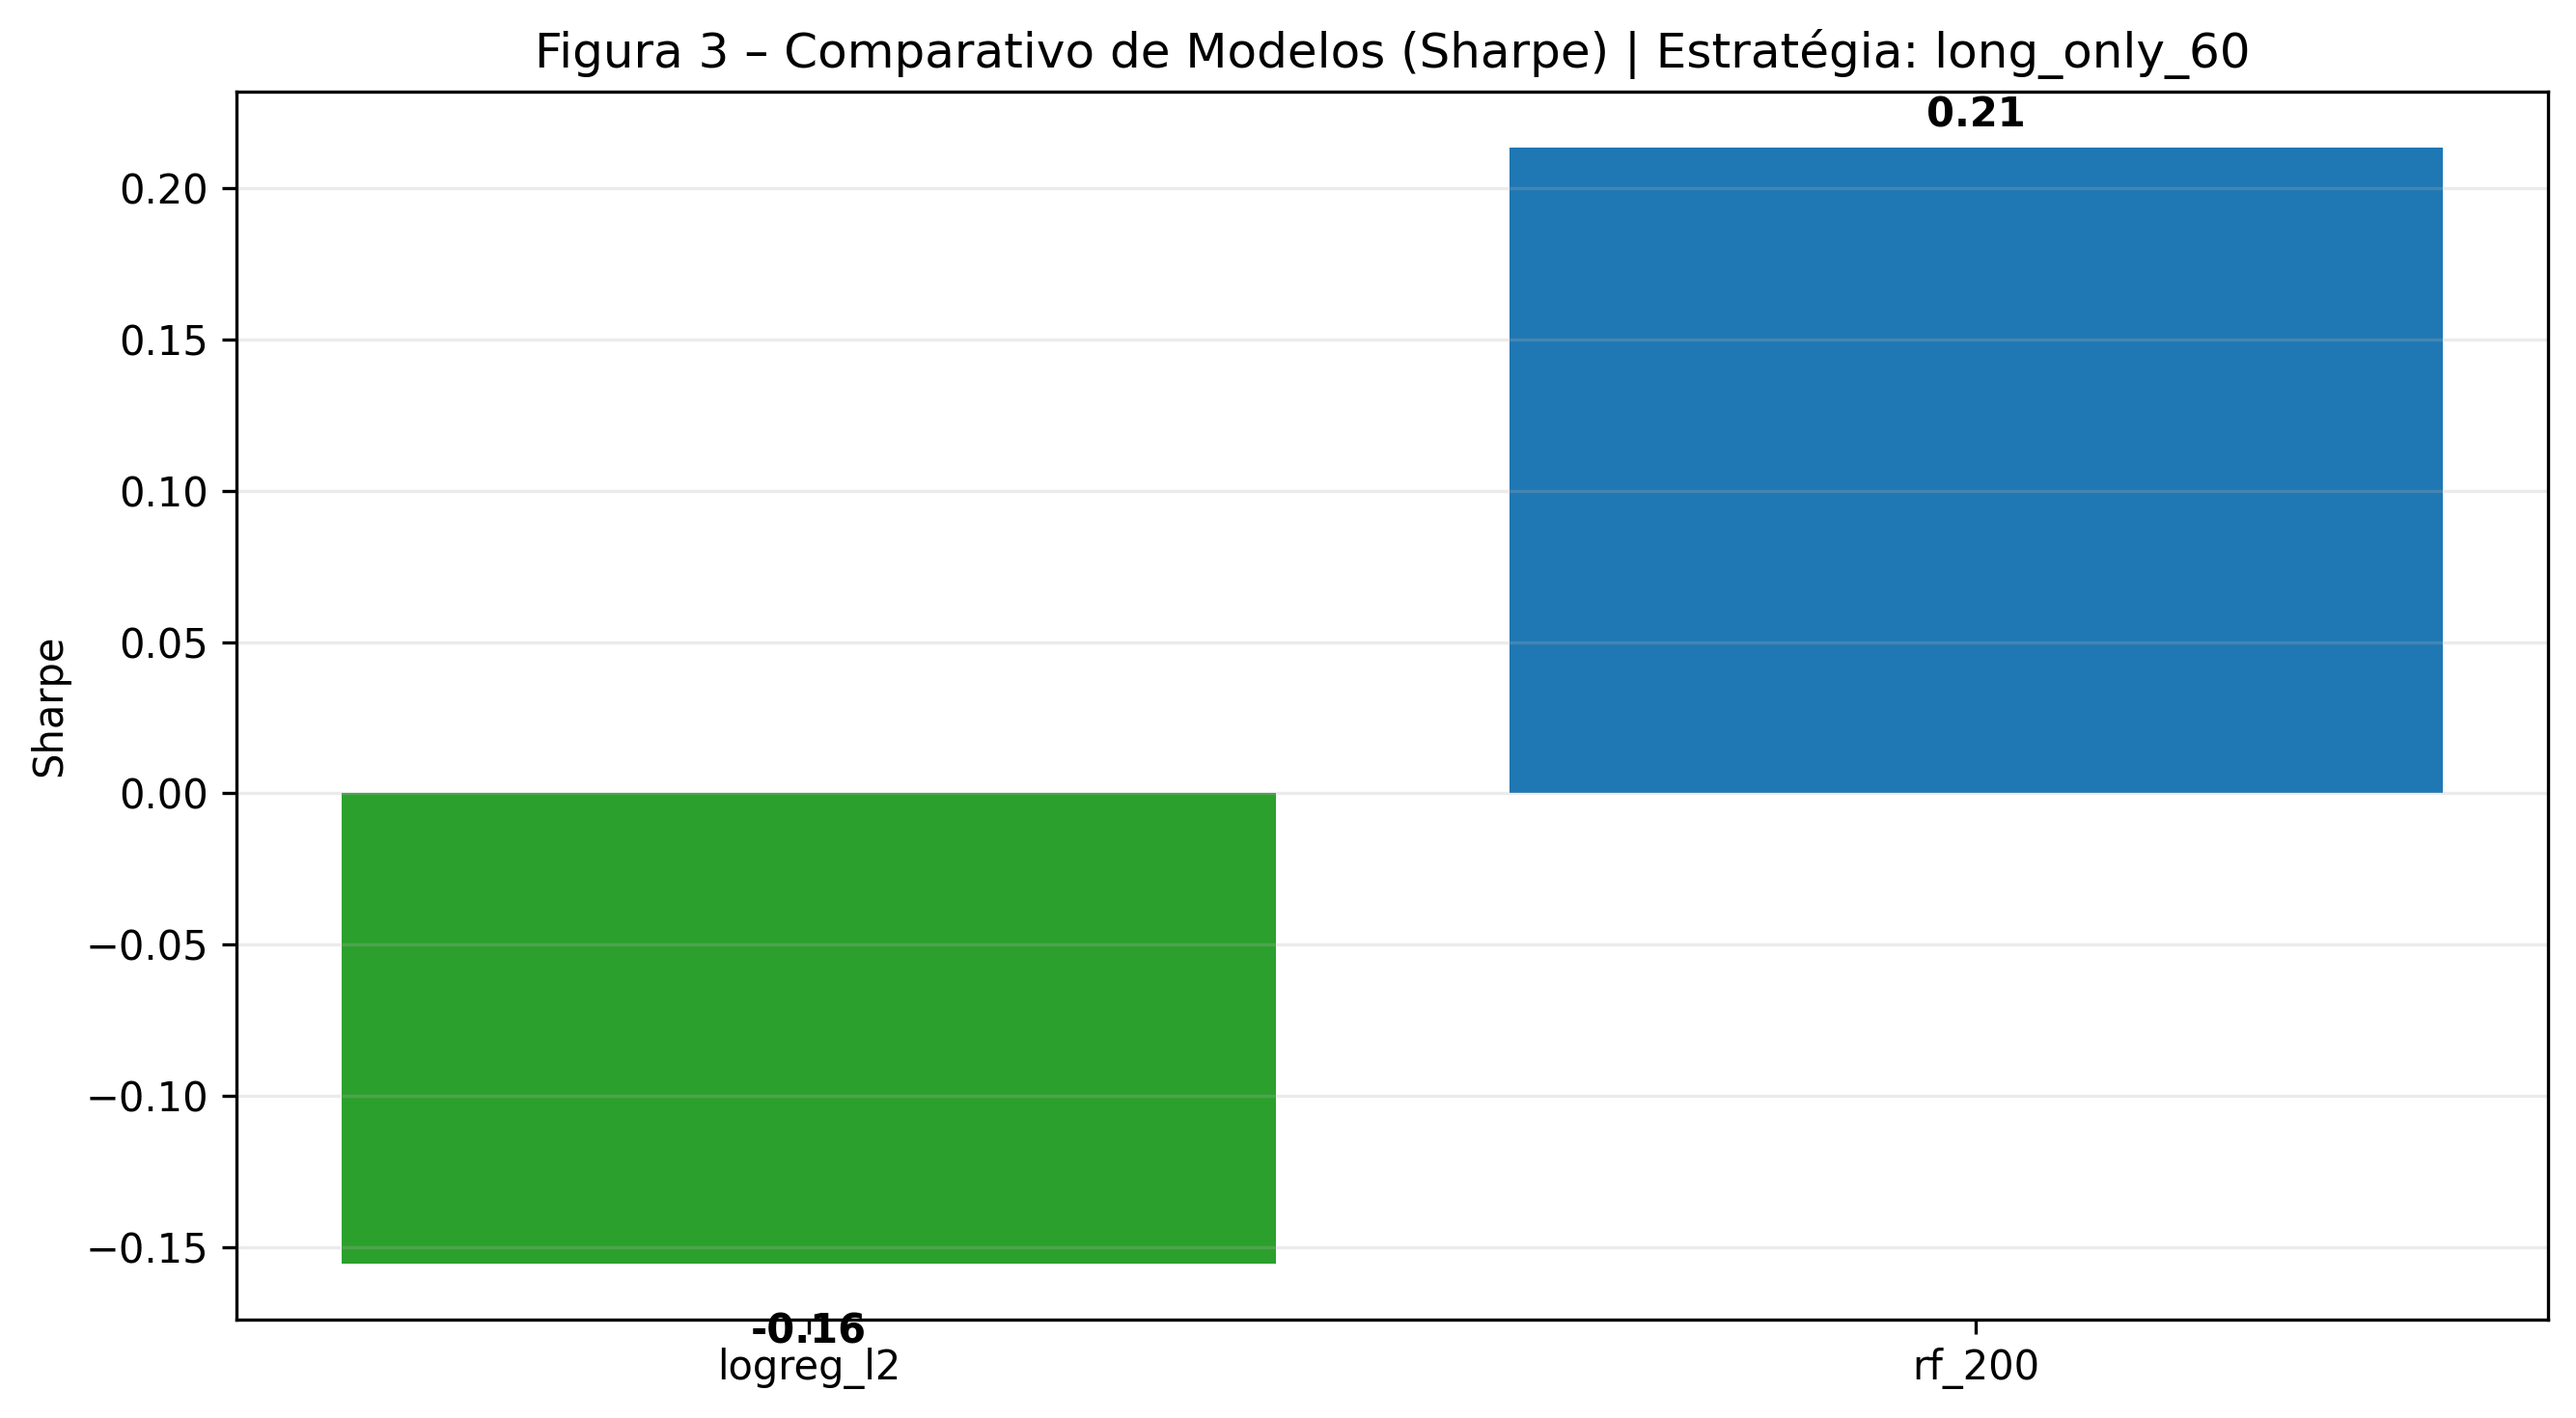
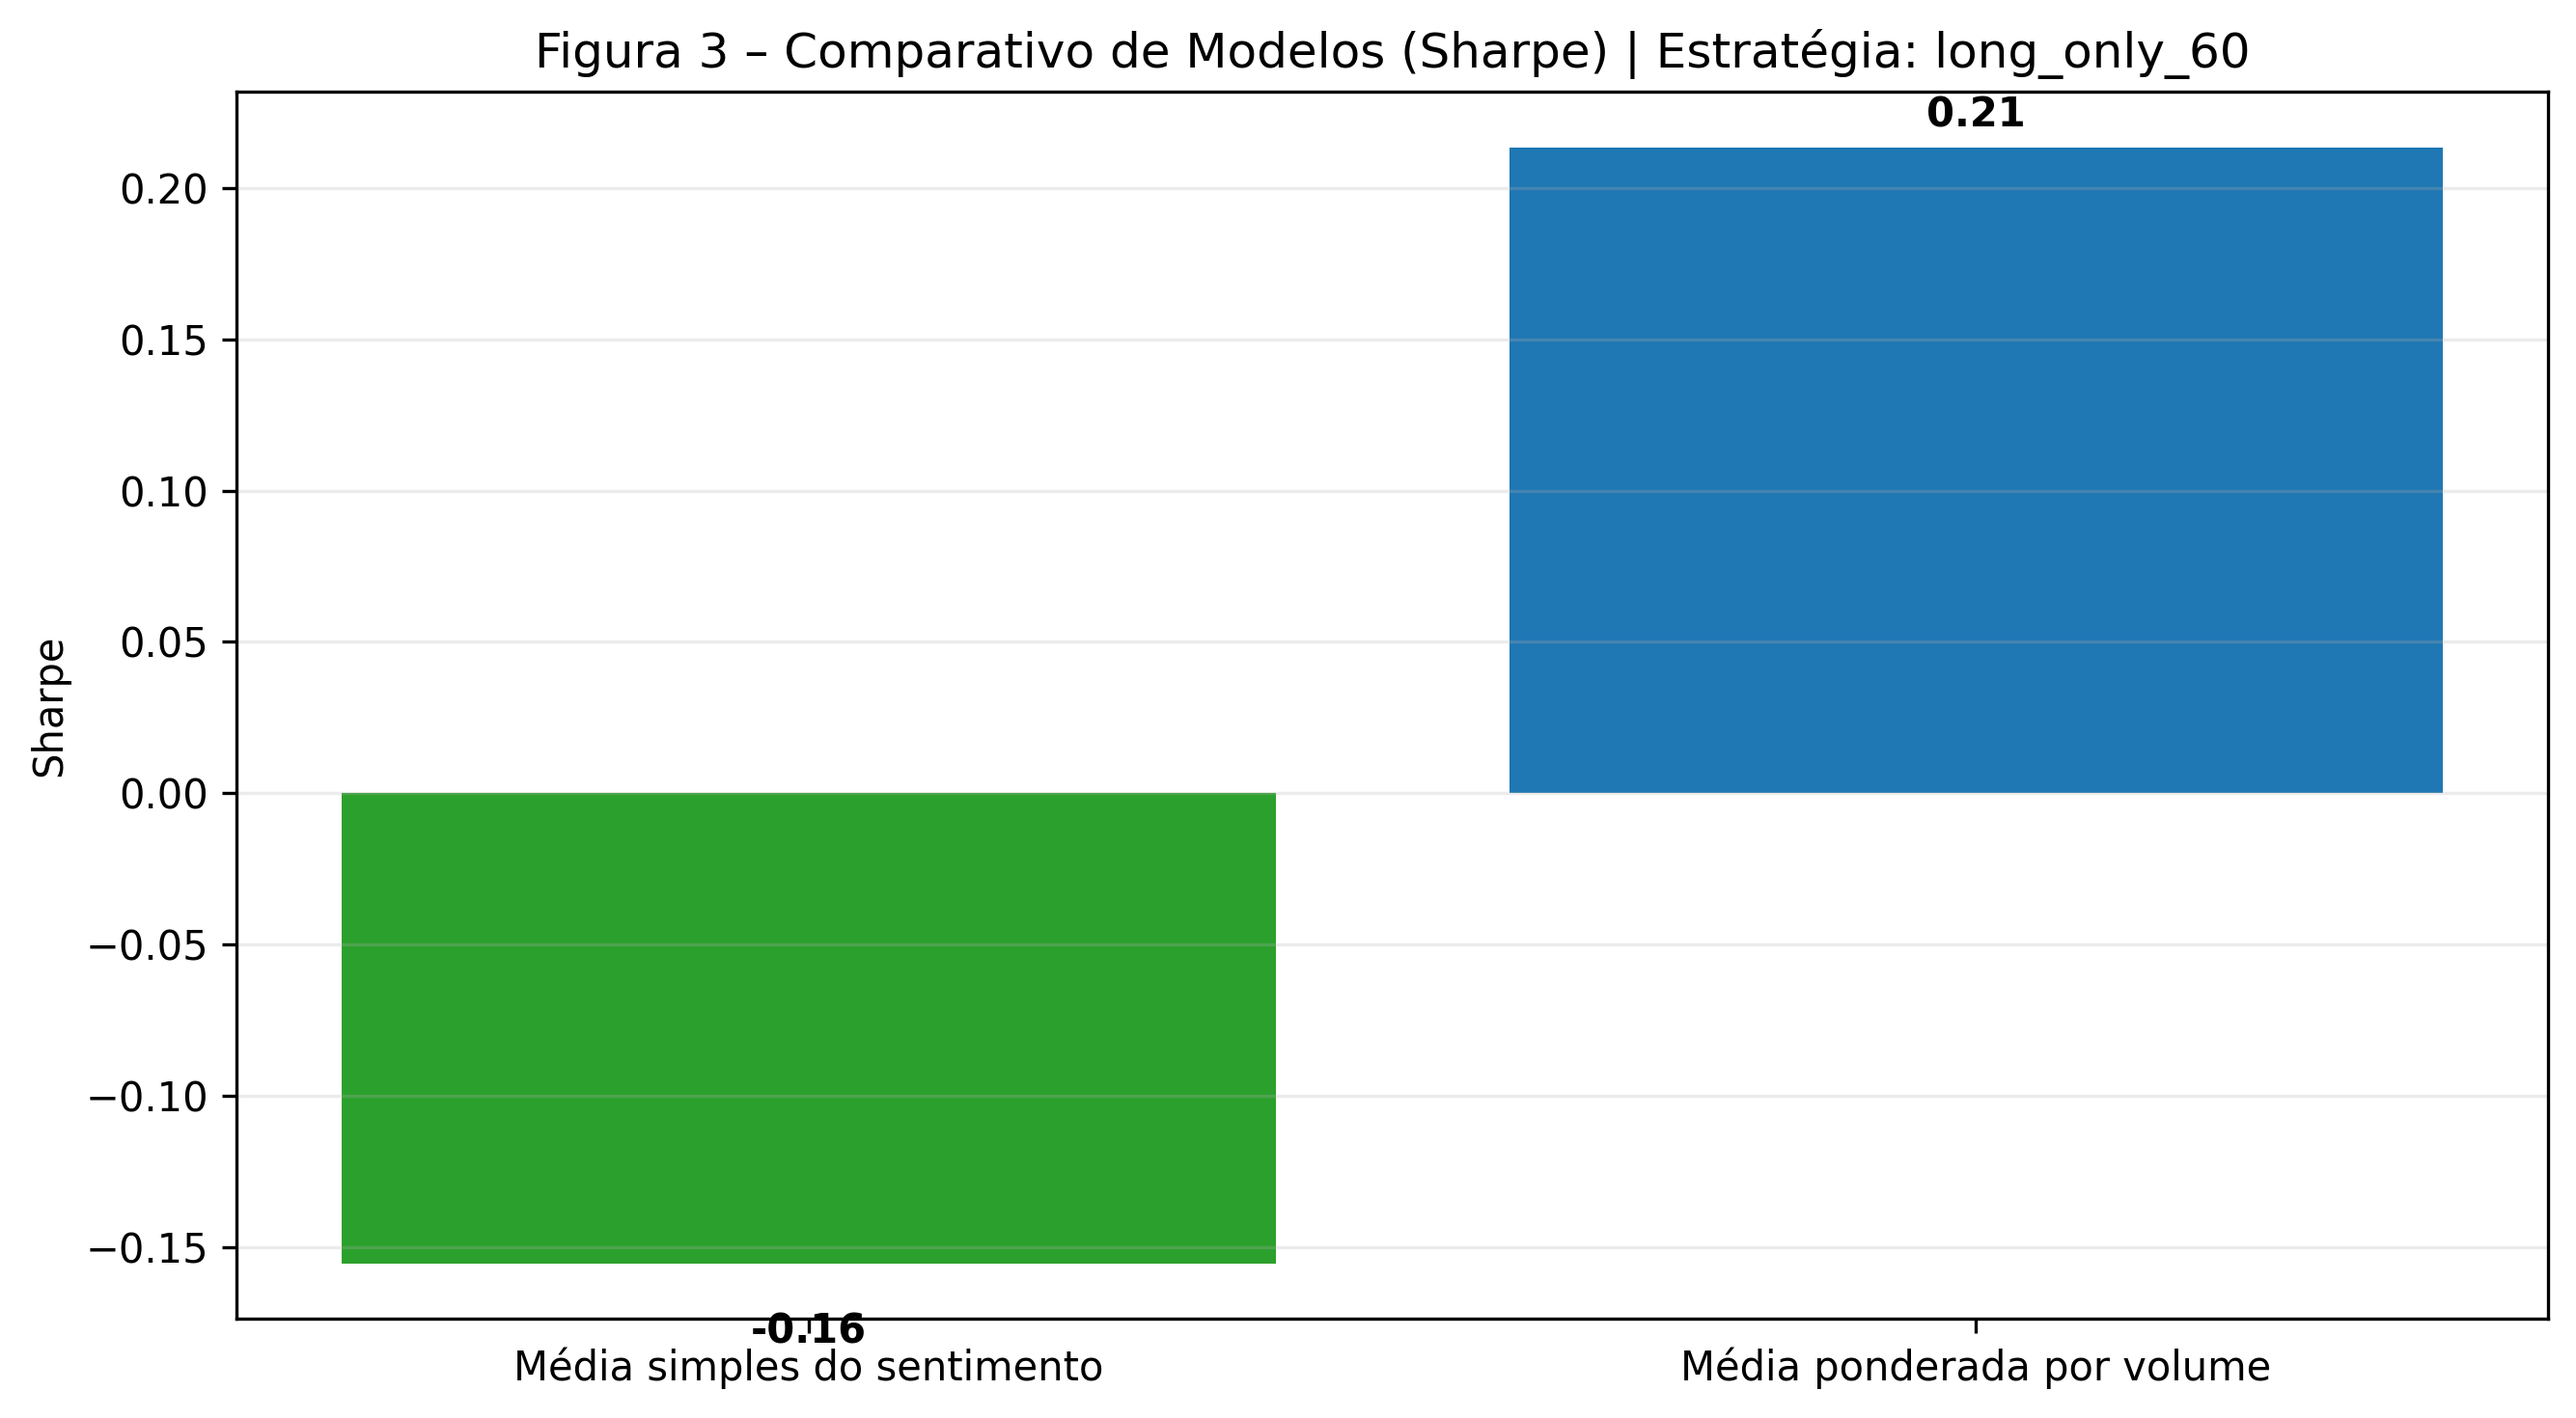
feat(labels): atualiza rótulos de legenda para nomes descritivos (v1.1)
- Substitui 'logreg_l2' por 'Média simples do sentimento' e 'rf_200'
  por 'Média ponderada por volume' nas legendas das Figuras 2, 4 e 8
- Adiciona MODEL_DISPLAY_NAMES em export_tcc_figures.py e app_dashboard.py
  para mapeamento centralizado sem renomear colunas ou variáveis internas
- Regenera 11 figuras base (long_only_60) com os novos rótulos
- Atualiza README: badge de versão, descrição dos modelos no dropdown
  e nota de versão v1.1 na seção de validação

Changed region(s): [[0.1866, 0.949, 0.4354, 0.9796], [0.6531, 0.949, 0.8707, 0.9796]]

diff --git a/scripts/export_tcc_figures.py b/scripts/export_tcc_figures.py
@@ -26,6 +26,10 @@ FORCE_OVERWRITE = True
 OFFICIAL_START = pd.Timestamp("2018-01-02")
 OFFICIAL_END = pd.Timestamp("2024-12-31")
 ANCHOR_MODELS = ["logreg_l2", "rf_200"]
+MODEL_DISPLAY_NAMES = {
+    "logreg_l2": "Média simples do sentimento",
+    "rf_200": "Média ponderada por volume",
+}
 # ordem de preferência; caímos para a próxima se a curva diária ficar peça (nunique<=200)
 STRATEGIES_CFG = [
     {"name": "long_only_60", "long_th": 0.60, "short_th": 0.40, "allow_short": False, "cost": 0.0005},
@@ -295,7 +299,7 @@ def figure_ibov_events(ibov: pd.DataFrame, events: pd.DataFrame) -> None:
 def figure_sentiment_daily(sent_daily: pd.DataFrame) -> None:
     fig, ax = plt.subplots(figsize=(11, 5.5), dpi=300)
     for model, dfm in sent_daily.groupby("model"):
-        ax.plot(dfm["day"], dfm["sentiment"], label=model)
+        ax.plot(dfm["day"], dfm["sentiment"], label=MODEL_DISPLAY_NAMES.get(model, model))
     ax.axhline(0, color="gray", linestyle="--", linewidth=1)
     ax.set_title("Figura 2 – Sentimento médio diário")
     ax.set_xlabel("Data")
@@ -314,7 +318,7 @@ def figure_scatter(sent_daily: pd.DataFrame, ibov: pd.DataFrame, model: str = "l
     fig, ax = plt.subplots(figsize=(9, 5), dpi=300)
     ax.scatter(merged["sent"], merged["ret"], alpha=0.35, edgecolor="k", s=24)
     ax.set_title(f"Figura 4 – Dispersão Sentimento × Retorno (r={corr:.2f})")
-    ax.set_xlabel(f"Sentimento ({model})")
+    ax.set_xlabel(f"Sentimento ({MODEL_DISPLAY_NAMES.get(model, model)})")
     ax.set_ylabel("Retorno diário do Ibovespa")
     ax.grid(alpha=0.25)
     fig.tight_layout()
@@ -435,8 +439,8 @@ def figure_backtest_vs_benchmark(oof: pd.DataFrame, ibov: pd.DataFrame, strategy
     equity_df, stats, strategy = compute_backtest_mark_to_market(oof, ibov, strategy_name)
     equity_df.to_csv(OUTPUT_DIR / "Figura_8_backtest_vs_benchmark.csv", index=False)
     fig, ax = plt.subplots(figsize=(11, 5.5), dpi=300)
-    ax.plot(equity_df["date"], equity_df["equity_logreg_l2"], label=f"logreg_l2 ({strategy})")
-    ax.plot(equity_df["date"], equity_df["equity_rf_200"], label=f"rf_200 ({strategy})")
+    ax.plot(equity_df["date"], equity_df["equity_logreg_l2"], label=f"Média simples do sentimento ({strategy})")
+    ax.plot(equity_df["date"], equity_df["equity_rf_200"], label=f"Média ponderada por volume ({strategy})")
     ax.plot(equity_df["date"], equity_df["equity_ibov"], label="Ibov buy&hold", color="black", linestyle="--")
     ax.set_title("Figura 8 – Curva de backtest vs benchmark (normalizadas em 1.0)")
     ax.set_ylabel("Equity normalizado")
@@ -461,7 +465,8 @@ def figure_comparativo(backtest_stats: Dict[str, Dict[str, float]], strategy_nam
     if len(data["model"].unique()) < 2:
         raise RuntimeError("Figura 3: não foram encontradas duas linhas de Sharpe para a estratégia.")
     fig, ax = plt.subplots(figsize=(9, 5), dpi=300)
-    bars = ax.bar(data["model"], data["sharpe"], color=["#2ca02c", "#1f77b4"])
+    x_labels = [MODEL_DISPLAY_NAMES.get(m, m) for m in data["model"]]
+    bars = ax.bar(x_labels, data["sharpe"], color=["#2ca02c", "#1f77b4"])
     for bar in bars:
         height = bar.get_height()
         offset = 3 if height >= 0 else -12

diff --git a/app_dashboard.py b/app_dashboard.py
@@ -45,6 +45,10 @@ LATENCY_PATH = cfg.get_arquivo("latency_events", BASE_PATH)
 PREFERRED_STRATEGY = "long_only_60"
 FALLBACK_STRATEGY = "long_only_55"
 COMPARE_MODELS_ANCHOR = ["logreg_l2", "rf_200"]
+MODEL_DISPLAY_NAMES = {
+    "logreg_l2": "Média simples do sentimento",
+    "rf_200": "Média ponderada por volume",
+}
 
 PLOTLY_CONFIG = dict(
     displayModeBar=True,
@@ -1009,7 +1013,7 @@ def update_dashboard(start_date, end_date, selected_model, metric, export_toggle
                         x=grp["day"],
                         y=grp["equity"],
                         mode="lines",
-                        name=f"{model} | {strategy}",
+                        name=f"{MODEL_DISPLAY_NAMES.get(model, model)} | {strategy}",
                     )
                 )
         if backtest_fig.data:

diff --git a/README.md b/README.md
@@ -2,7 +2,7 @@
 
 ![Python](https://img.shields.io/badge/Python-3.x-blue)
 ![Dash](https://img.shields.io/badge/Dash-Plotly-informational)
-![Status](https://img.shields.io/badge/Status-Validado%20%7C%20v1.0--dashboard-success)
+![Status](https://img.shields.io/badge/Status-Validado%20%7C%20v1.1--legend--labels-success)
 
 ## Identificação acadêmica (USP)
 - **Autor:** Anderson Pantoja Machado
@@ -120,7 +120,7 @@ cd C:\TCC_USP\tcc-usp-ibovespa-sentimento
 
 ## Como usar o dashboard
 - **Período de Análise:** filtra todos os 8 gráficos (clamp dentro do hard cap).
-- **Modelo:** dropdown (ex.: `logreg_l2`, `rf_200`); afeta comparativo, backtest e KPIs.
+- **Modelo:** dropdown (identificadores: `logreg_l2` = *Média simples do sentimento*, `rf_200` = *Média ponderada por volume*); afeta comparativo, backtest e KPIs. As legendas dos gráficos exibem os nomes descritivos.
 - **Métrica:** `AUC`, `MDA`, `Sharpe` (comparativo e KPIs).
   - AUC: discriminação (ROC) do classificador.
   - MDA: acerto direcional médio (↑/↓).
@@ -174,6 +174,7 @@ Relatórios em `reports/`:
 - `dashboard_blueprint.md` e `dashboard_graph_index.json` — mapa do layout/figuras.
 
 Versão estável: tag **v1.0-dashboard** (commit core: `cbee9db`).
+Versão atual: **v1.1** — legendas das Figuras 2, 4 e 8 atualizadas para nomes descritivos (`Média simples do sentimento` / `Média ponderada por volume`).
 
 ---
 
